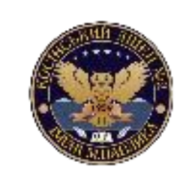
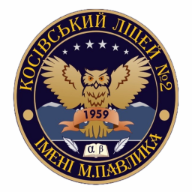
u

diff --git a/src/index.js b/src/index.js
@@ -6,6 +6,7 @@ const authors = document.querySelectorAll(".author");
 const burger = document.querySelector(".burger");
 const main = document.querySelector("main");
 const navigation = document.querySelector(".navigation");
+const burgerLinks = document.querySelectorAll(".burger-link");
 
 const animTime = 3000;
 const letters = "АБВГҐДЕЄЖЗИІЇЙКЛМНОПРСТУФХЦЧШЩЬЮЯ";
@@ -81,7 +82,8 @@ particlesJS.load("particles-js", "./assets/particles.json");
 
 let open = false;
 
-burger.addEventListener("click", () => {
+const burgerHandler = () => {
+    console.log("lol");
     if (!open) {
         open = true;
         main.classList.add("none");
@@ -93,4 +95,7 @@ burger.addEventListener("click", () => {
     open = false;
     main.classList.remove("none");
     navigation.classList.add("none");
-});
+};
+
+burger.addEventListener("click", burgerHandler);
+burgerLinks.forEach((link) => link.addEventListener("click", burgerHandler));

diff --git a/src/index.html b/src/index.html
@@ -37,7 +37,7 @@
     </head>
     <body>
         <header>
-            <img src="./assets/android-chrome-192x192.png" />
+            <img src="./assets/logo.png" />
             <div class="header-links">
                 <a href="#main">Головна</a>
                 <a href="#particles-js">Історія</a>
@@ -48,9 +48,9 @@
             </div>
         </header>
         <div class="navigation center none">
-            <a href="#main">Головна</a>
-            <a href="#particles-js">Історія</a>
-            <a href="#contact">Контакти</a>
+            <a href="#main" class="burger-link">Головна</a>
+            <a href="#particles-js" class="burger-link">Історія</a>
+            <a href="#contact" class="burger-link">Контакти</a>
         </div>
         <main class="">
             <section class="main center display" id="main">

diff --git a/src/styles.css b/src/styles.css
@@ -139,7 +139,7 @@ header > div {
 }
 
 .navigation > a:hover {
-    color: var(--black-primary);
+    color: var(--black-primary) !important;
 }
 
 .navigation > a:visited {
